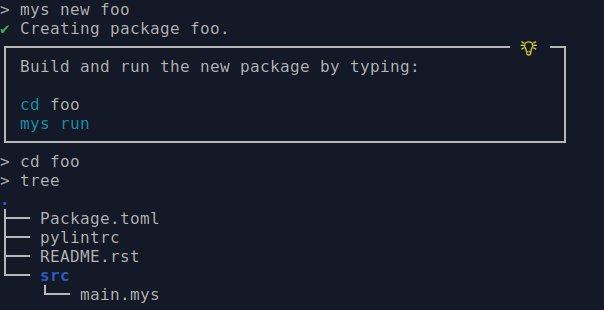
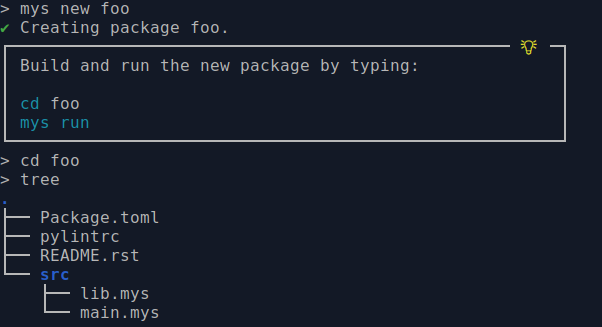
Test design continued.

Changed region(s): [[0.0, 0.0, 0.9568, 0.6097], [0.0, 0.6387, 0.2691, 0.9871]]

diff --git a/mys/transpile.py b/mys/transpile.py
@@ -1,6 +1,7 @@
 import traceback
 import textwrap
 import ast
+from pathlib import Path
 from pygments import highlight
 from pygments.formatters import Terminal256Formatter
 from pygments.lexer import RegexLexer
@@ -595,12 +596,17 @@ class SourceVisitor(BaseVisitor):
         decorators = [self.visit(decorator) for decorator in node.decorator_list]
 
         if 'test' in decorators:
+            parts = Path(self.module_hpp).parts
+            full_test_name = list(parts[1:-1])
+            full_test_name += [parts[-1].split('.')[0]]
+            full_test_name += [function_name]
+            full_test_name = '::'.join([part for part in full_test_name])
             code = '\n'.join([
                 '#if defined(MYS_TEST)',
                 '',
                 code,
                 '',
-                f'Test test_{function_name}("{function_name}", {function_name});',
+                f'Test test_{function_name}("{full_test_name}", {function_name});',
                 '',
                 '#endif'
                 ])

diff --git a/mys/version.py b/mys/version.py
@@ -1,1 +1,1 @@
-__version__ = '0.49.0'
+__version__ = '0.50.0'

diff --git a/README.rst b/README.rst
@@ -47,8 +47,8 @@ tutorial.
 
 .. image:: https://github.com/eerimoq/mys/raw/master/docs/new.png
 
-``src/main.mys`` implements the hello world application. It looks like
-this:
+``src/main.mys`` implements the hello world application. This file is
+only be part of application packages (executables).
 
 .. code-block:: python
 
@@ -59,6 +59,19 @@ Build and run the application with the command ``mys run``. It prints
 ``Hello, world!``, just as expected.
 
 .. image:: https://github.com/eerimoq/mys/raw/master/docs/run.png
+
+``src/lib.mys`` implements ``add()`` and it's test
+``test_add()``. This file is normally part of both application
+packages and plain library packages.
+
+.. code-block:: python
+
+   def add(first: int, second: int) -> int:
+       return first + second
+
+   @test
+   def test_add():
+       assert_eq(add(1, 2), 3)
 
 Build and run the tests with the command ``mys test``.
 
